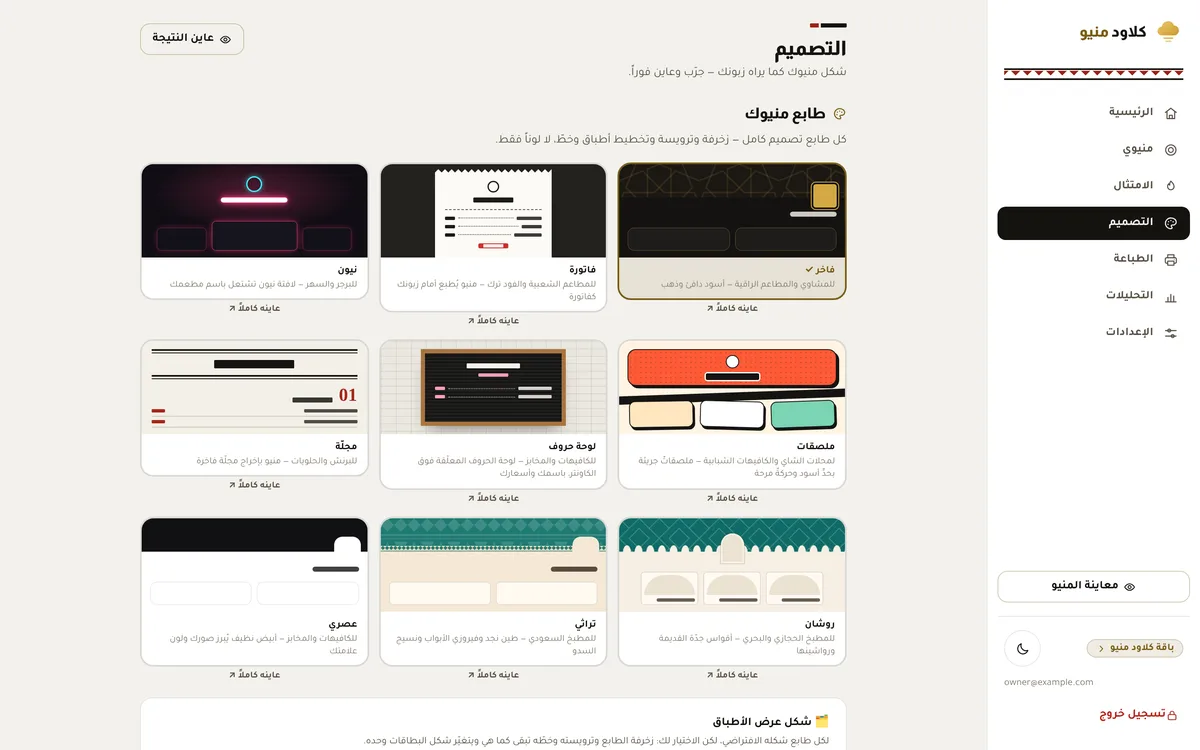
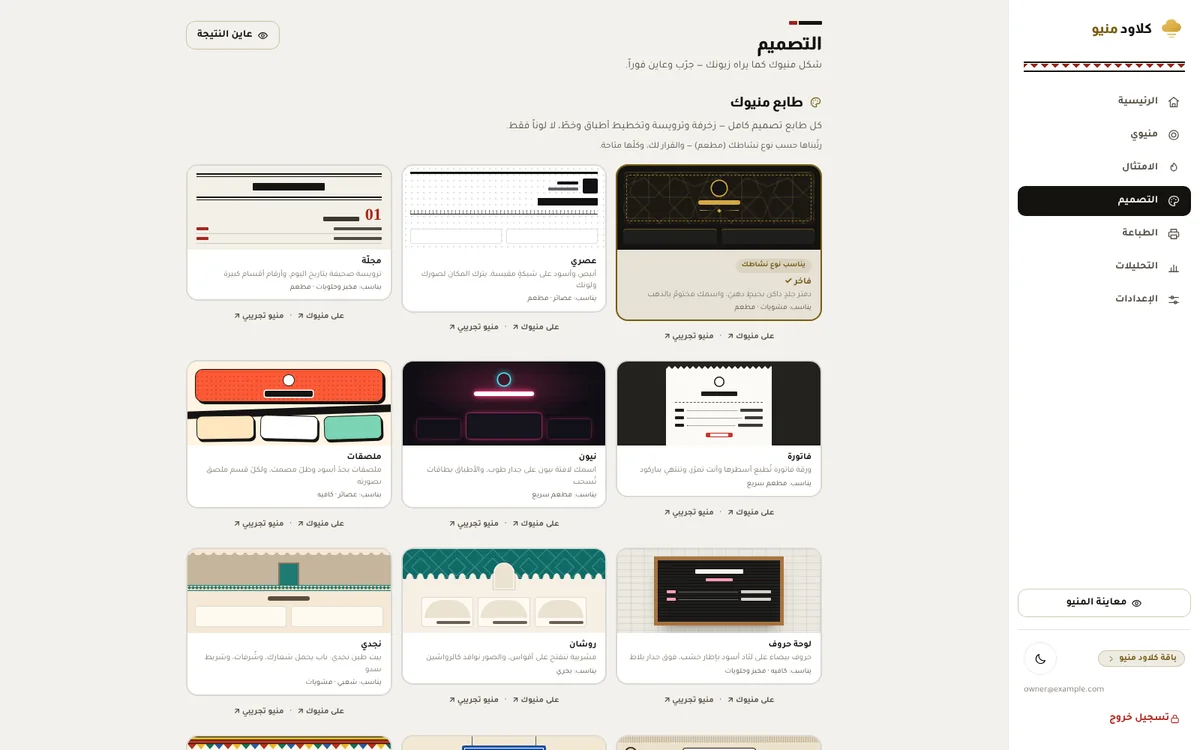
مقال الطوابع: غلافٌ وصورةٌ بالطوابع الستّة عشر بدل «9 طوابع» و«تراثي»
الغلاف كان يقول «9 طوابع» وفيه «تراثي» (اسمه اليوم «نجدي») تحت عنوانٍ يقول ١٦.
الجديد بلا رقمٍ يتقادم («طابعٌ يشبه كلَّ مكان») وشبكة الستّة عشر بألوانها من
themes.ts، على قالب أغلفة المدونة نفسه (الشارة والسدو والشعار مأخوذةٌ من الغلاف
القديم). وصورة صفحة «التصميم» داخل المقال من اللوحة الحالية بجلسة مُحاكاة، وزرّ
«عاينه كاملاً» الذي ذكره المقال صار «منيو تجريبي» و«على منيوك».

Claude-Session: https://claude.ai/code/session_015gPK9ZWo1kTcZmq4ErZDy4

diff --git a/app/src/content/articles/menu-themes-guide.html b/app/src/content/articles/menu-themes-guide.html
@@ -38,7 +38,7 @@
 
 <figure>
 <img src="/blog/menu-themes-guide/themes.webp" alt="شبكة من طوابع المنيو في لوحة كلاود منيو، لكل طابع معاينة واسم ووصف" width="1200" height="750" loading="lazy">
-<figcaption>صفحة «التصميم»: كل طابع بمعاينته واسمه، و«عاينه كاملاً» يفتحه على منيو تجريبي.</figcaption>
+<figcaption>صفحة «التصميم»: كل طابع بمعاينته واسمه، و«منيو تجريبي» يفتحه كاملاً، و«على منيوك» يلبسه منيوك أنت.</figcaption>
 </figure>
 
 <h2>شكل عرض الأطباق</h2>
@@ -70,7 +70,7 @@
 <h2>ثلاثة أخطاء شائعة</h2>
 
 <ol>
-<li><strong>الاختيار من شاشة الحاسوب</strong>: الزبون يفتح المنيو من جواله. اضغط «عاينه كاملاً» وافتح المعاينة من جوالك أنت.</li>
+<li><strong>الاختيار من شاشة الحاسوب</strong>: الزبون يفتح المنيو من جواله. اضغط «على منيوك» وافتح المعاينة من جوالك أنت.</li>
 <li><strong>طابع لا يشبه المكان</strong>: اسأل نفسك — لو دخل الزبون المحلّ بعد أن رأى المنيو، هل يشعر أنه المكان نفسه؟</li>
 <li><strong>التبديل كل أسبوع</strong>: الزبون الدائم يتعوّد على منيوك. غيّر الطابع حين تغيّر هويّتك، لا حين تملّ.</li>
 </ol>
